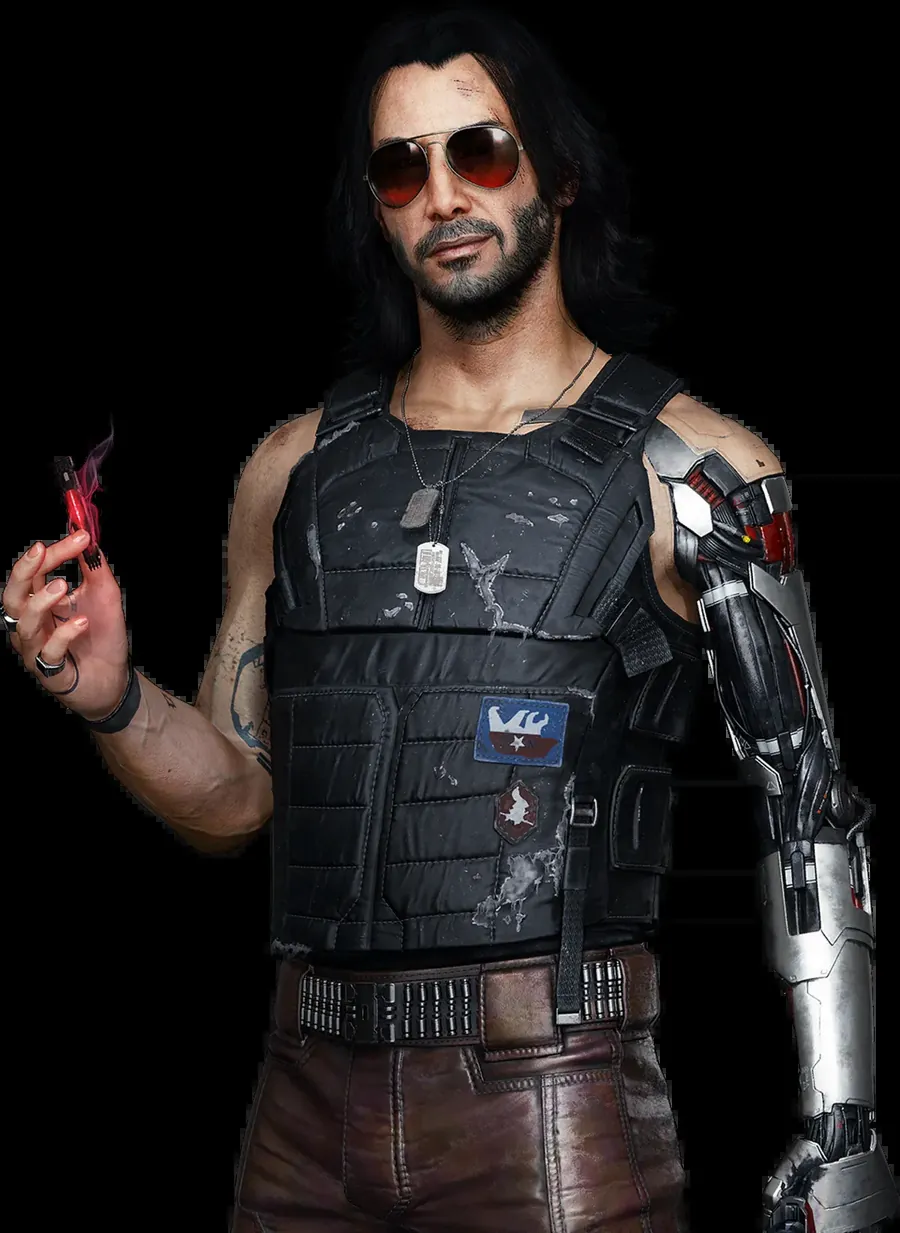
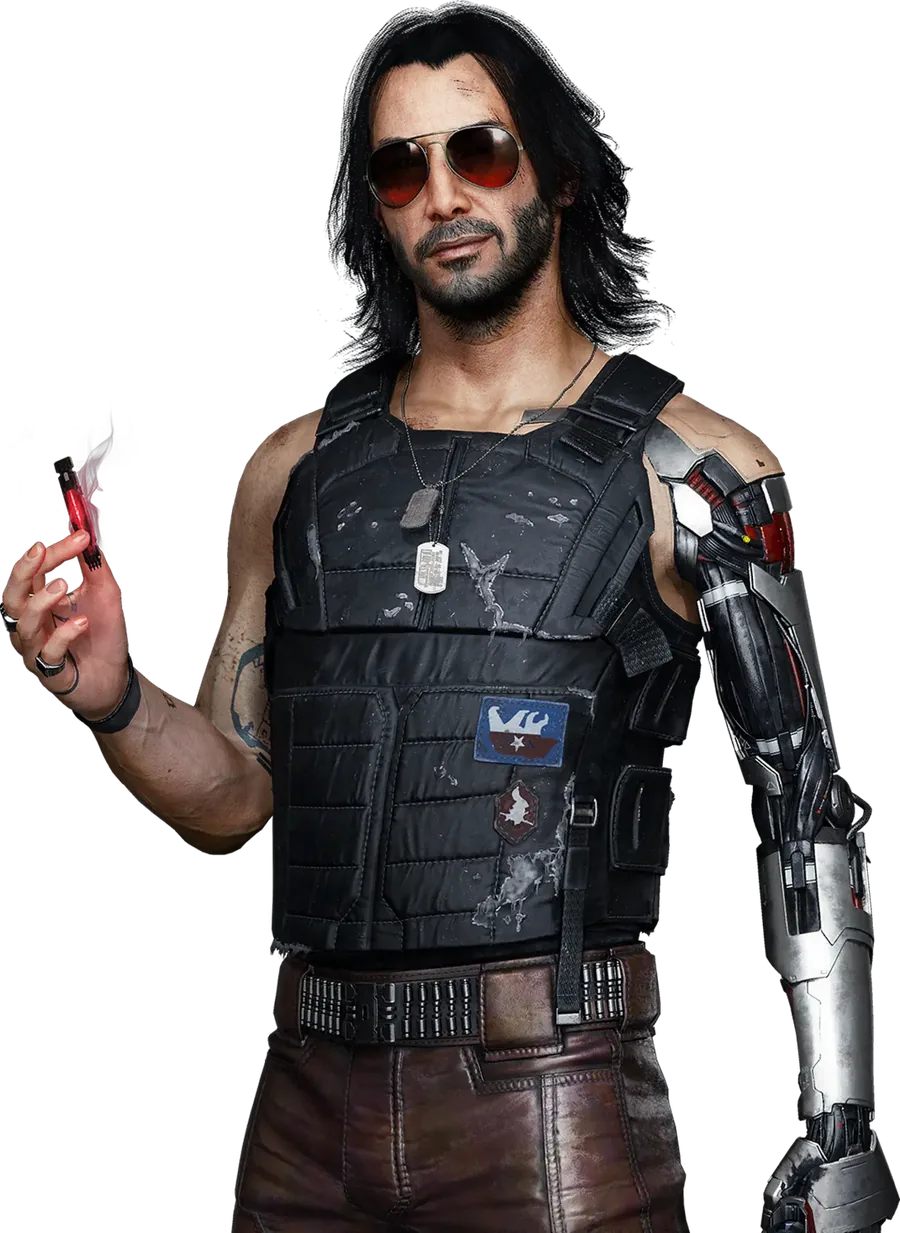
fix(bio): restore the portrait's transparency lost in WebP conversion
The cut-out was flattened onto black, so it read as a dark box. Regenerated
both sizes from the original RGBA file, put a studio backdrop behind it and
kept the grayscale look in performance mode.

diff --git a/styles/main.css b/styles/main.css
@@ -550,6 +550,15 @@ button:not(:disabled),
 .evidence:hover img {
   filter: grayscale(0) contrast(1.05);
 }
+/* The portrait is a transparent cut-out: give it a studio backdrop. */
+.evidence__backdrop {
+  background: radial-gradient(
+    ellipse 70% 60% at 50% 38%,
+    #6b6660 0%,
+    #3a3733 55%,
+    #161412 100%
+  );
+}
 .tape {
   position: absolute;
   width: 6.875rem;
@@ -1317,6 +1326,10 @@ html[data-perf="lite"] .rubber-stamp {
 html[data-perf="lite"] :is(.blueprint, .evidence) img {
   filter: none;
   transition: none;
+}
+/* A static grayscale on one photo is cheap; keep the evidence look. */
+html[data-perf="lite"] .evidence__backdrop img {
+  filter: grayscale(1) contrast(1.2);
 }
 html[data-perf="lite"] .sticker {
   filter: none;

diff --git a/components/Biography.tsx b/components/Biography.tsx
@@ -74,7 +74,7 @@ const Biography = () => (
                 />
                 <span className="tape tape--tl" />
                 <span className="tape tape--tr" />
-                <div className="relative aspect-[4/5] overflow-hidden bg-black">
+                <div className="evidence__backdrop relative aspect-[4/5] overflow-hidden">
                   <img
                     src={ASSETS.biographyPortrait}
                     srcSet={ASSETS.srcSet.biographyPortrait}
